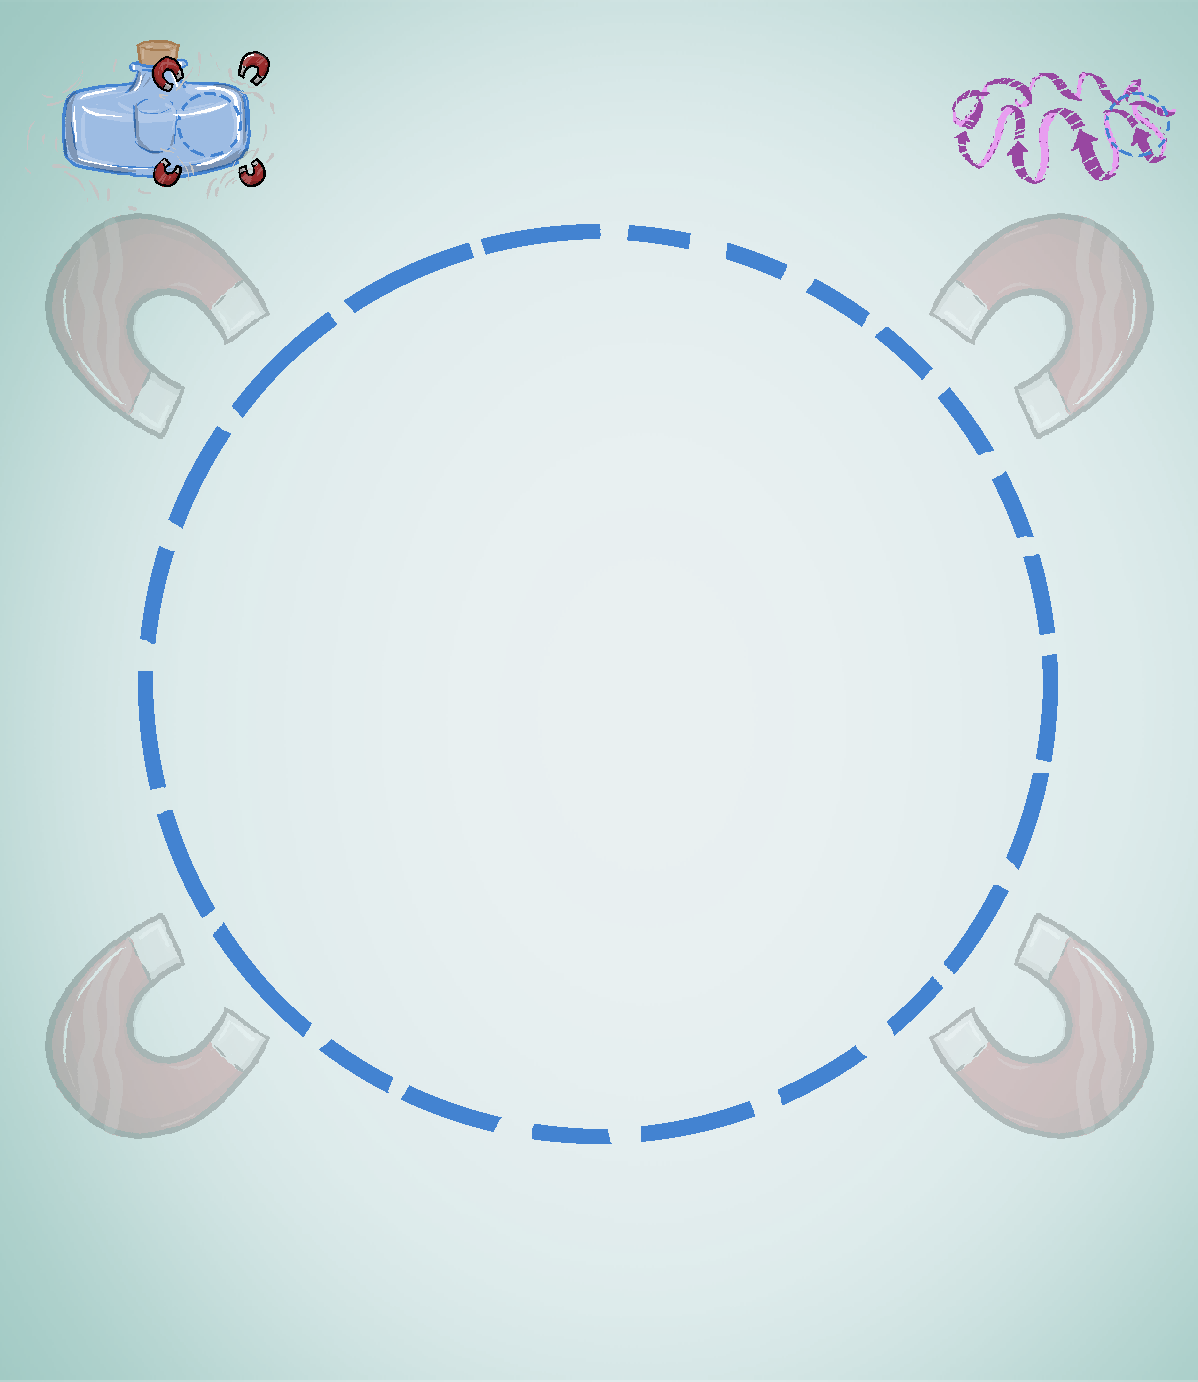
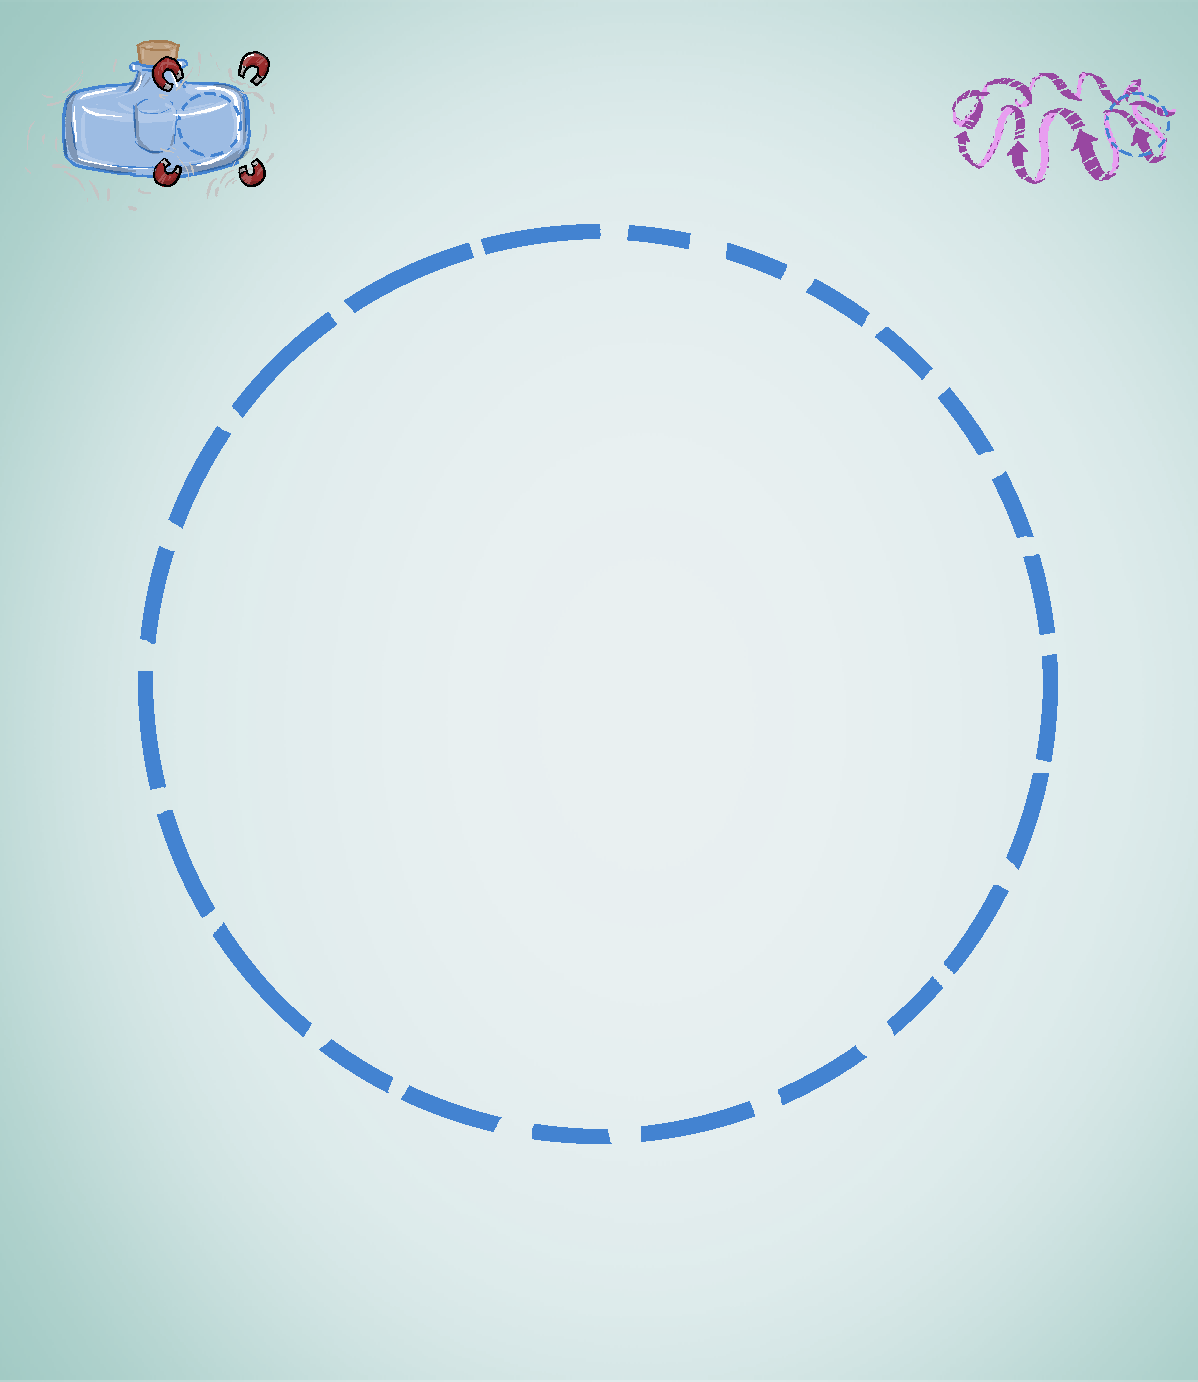
tweaks

diff --git a/library/styles/site.css b/library/styles/site.css
@@ -190,7 +190,7 @@ html, body, #wrap-outer {
   right: 0;
   text-align: center;
   padding: 20px 30px;
-  z-index: 3;
+  z-index: 6;
   text-shadow: 0 0 7px white;
 }
 /* line 139, /Users/wellcaffeinated/Documents/github/minutelabs/Fusion/library/styles/site.scss */
@@ -199,7 +199,7 @@ html, body, #wrap-outer {
   position: absolute;
   bottom: -10px;
   left: 15px;
-  z-index: 1;
+  z-index: 6;
   background: url('../images/fg-jorge-arturo.png?1401842778') no-repeat center center;
   background-size: 100%;
   width: 185px;
@@ -208,7 +208,7 @@ html, body, #wrap-outer {
 
 /* line 152, /Users/wellcaffeinated/Documents/github/minutelabs/Fusion/library/styles/site.scss */
 #bottle-simulation {
-  background: url('../images/bg-bottle.png?1401842778') no-repeat center center;
+  background: url('../images/bg-bottle.png?1401939898') no-repeat center center;
   background-size: 100%;
   height: 690px;
 }
@@ -239,7 +239,7 @@ html, body, #wrap-outer {
   position: absolute;
   bottom: -20px;
   left: 15px;
-  z-index: 1;
+  z-index: 6;
   background: url('../images/fg-jorge-stefan.png?1401842778') no-repeat center center;
   background-size: 100%;
   width: 230px;
@@ -296,55 +296,56 @@ html, body, #wrap-outer {
 /* line 233, /Users/wellcaffeinated/Documents/github/minutelabs/Fusion/library/styles/site.scss */
 .controls label {
   padding-right: 1em;
+  text-shadow: 0 0 7px white;
 }
-/* line 237, /Users/wellcaffeinated/Documents/github/minutelabs/Fusion/library/styles/site.scss */
+/* line 238, /Users/wellcaffeinated/Documents/github/minutelabs/Fusion/library/styles/site.scss */
 .controls .phdbtn {
   font-family: 'PHD';
   margin-bottom: 1em;
   margin-right: 1em;
 }
-/* line 243, /Users/wellcaffeinated/Documents/github/minutelabs/Fusion/library/styles/site.scss */
+/* line 244, /Users/wellcaffeinated/Documents/github/minutelabs/Fusion/library/styles/site.scss */
 .controls .slider {
   margin-bottom: 1em;
 }
-/* line 246, /Users/wellcaffeinated/Documents/github/minutelabs/Fusion/library/styles/site.scss */
+/* line 247, /Users/wellcaffeinated/Documents/github/minutelabs/Fusion/library/styles/site.scss */
 .controls .slider .handle {
   -webkit-transform: translateZ(0);
 }
-/* line 251, /Users/wellcaffeinated/Documents/github/minutelabs/Fusion/library/styles/site.scss */
+/* line 252, /Users/wellcaffeinated/Documents/github/minutelabs/Fusion/library/styles/site.scss */
 .controls .col-counter {
   margin: 0 0 1em 0.6em;
   text-align: left;
 }
-/* line 254, /Users/wellcaffeinated/Documents/github/minutelabs/Fusion/library/styles/site.scss */
+/* line 255, /Users/wellcaffeinated/Documents/github/minutelabs/Fusion/library/styles/site.scss */
 .controls .col-counter data {
   font-size: 2em;
   vertical-align: middle;
   margin-left: 0.2em;
   margin-top: -0.2em;
 }
-/* line 262, /Users/wellcaffeinated/Documents/github/minutelabs/Fusion/library/styles/site.scss */
+/* line 263, /Users/wellcaffeinated/Documents/github/minutelabs/Fusion/library/styles/site.scss */
 .controls .column {
   text-align: center;
 }
-/* line 266, /Users/wellcaffeinated/Documents/github/minutelabs/Fusion/library/styles/site.scss */
+/* line 267, /Users/wellcaffeinated/Documents/github/minutelabs/Fusion/library/styles/site.scss */
 .controls .field-type {
   overflow: hidden;
   margin-bottom: 2em;
 }
-/* line 269, /Users/wellcaffeinated/Documents/github/minutelabs/Fusion/library/styles/site.scss */
+/* line 270, /Users/wellcaffeinated/Documents/github/minutelabs/Fusion/library/styles/site.scss */
 .controls .field-type .radio-group {
   margin-left: 1em;
 }
-/* line 271, /Users/wellcaffeinated/Documents/github/minutelabs/Fusion/library/styles/site.scss */
+/* line 272, /Users/wellcaffeinated/Documents/github/minutelabs/Fusion/library/styles/site.scss */
 .controls .field-type .radio-group > a {
   margin-right: 48px;
 }
-/* line 273, /Users/wellcaffeinated/Documents/github/minutelabs/Fusion/library/styles/site.scss */
+/* line 274, /Users/wellcaffeinated/Documents/github/minutelabs/Fusion/library/styles/site.scss */
 .controls .field-type .radio-group > a:last-child {
   margin-right: 0;
 }
-/* line 280, /Users/wellcaffeinated/Documents/github/minutelabs/Fusion/library/styles/site.scss */
+/* line 281, /Users/wellcaffeinated/Documents/github/minutelabs/Fusion/library/styles/site.scss */
 .controls:before {
   content: 'Play with the knobs, see what happens!';
   width: 150px;
@@ -360,15 +361,15 @@ html, body, #wrap-outer {
   background-size: 34px;
 }
 
-/* line 296, /Users/wellcaffeinated/Documents/github/minutelabs/Fusion/library/styles/site.scss */
+/* line 297, /Users/wellcaffeinated/Documents/github/minutelabs/Fusion/library/styles/site.scss */
 #bottom-info {
   position: relative;
 }
-/* line 299, /Users/wellcaffeinated/Documents/github/minutelabs/Fusion/library/styles/site.scss */
+/* line 300, /Users/wellcaffeinated/Documents/github/minutelabs/Fusion/library/styles/site.scss */
 #bottom-info .legend {
   margin: 34px 22px;
 }
-/* line 301, /Users/wellcaffeinated/Documents/github/minutelabs/Fusion/library/styles/site.scss */
+/* line 302, /Users/wellcaffeinated/Documents/github/minutelabs/Fusion/library/styles/site.scss */
 #bottom-info .legend h3 {
   font-family: 'PHD';
   color: #000;
@@ -376,12 +377,12 @@ html, body, #wrap-outer {
   font-weight: normal;
   margin: 0;
 }
-/* line 308, /Users/wellcaffeinated/Documents/github/minutelabs/Fusion/library/styles/site.scss */
+/* line 309, /Users/wellcaffeinated/Documents/github/minutelabs/Fusion/library/styles/site.scss */
 #bottom-info .legend dl {
   overflow: hidden;
   margin: 0;
 }
-/* line 312, /Users/wellcaffeinated/Documents/github/minutelabs/Fusion/library/styles/site.scss */
+/* line 313, /Users/wellcaffeinated/Documents/github/minutelabs/Fusion/library/styles/site.scss */
 #bottom-info .legend dt {
   float: left;
   height: 22px;
@@ -389,20 +390,20 @@ html, body, #wrap-outer {
   clear: left;
   text-align: center;
 }
-/* line 319, /Users/wellcaffeinated/Documents/github/minutelabs/Fusion/library/styles/site.scss */
+/* line 320, /Users/wellcaffeinated/Documents/github/minutelabs/Fusion/library/styles/site.scss */
 #bottom-info .legend dd {
   float: left;
   height: 22px;
   line-height: 120%;
   margin-left: 4px;
 }
-/* line 329, /Users/wellcaffeinated/Documents/github/minutelabs/Fusion/library/styles/site.scss */
+/* line 330, /Users/wellcaffeinated/Documents/github/minutelabs/Fusion/library/styles/site.scss */
 #bottom-info .credit {
   position: absolute;
   right: 20px;
   top: 54px;
 }
-/* line 335, /Users/wellcaffeinated/Documents/github/minutelabs/Fusion/library/styles/site.scss */
+/* line 336, /Users/wellcaffeinated/Documents/github/minutelabs/Fusion/library/styles/site.scss */
 #bottom-info .minutelabs {
   font-size: 18px;
   font-family: "latin-modern-mono", Courier, monospace;
@@ -416,11 +417,11 @@ html, body, #wrap-outer {
   -webkit-font-smoothing: auto;
   text-rendering: optimizeLegibility;
 }
-/* line 349, /Users/wellcaffeinated/Documents/github/minutelabs/Fusion/library/styles/site.scss */
+/* line 350, /Users/wellcaffeinated/Documents/github/minutelabs/Fusion/library/styles/site.scss */
 #bottom-info .minutelabs span {
   color: #626262;
 }
-/* line 353, /Users/wellcaffeinated/Documents/github/minutelabs/Fusion/library/styles/site.scss */
+/* line 354, /Users/wellcaffeinated/Documents/github/minutelabs/Fusion/library/styles/site.scss */
 #bottom-info .minutelabs img {
   display: block;
   margin: 0 auto 0.4em;

diff --git a/library/js/mediators/boilerplate.js b/library/js/mediators/boilerplate.js
@@ -152,7 +152,7 @@ define([
             // bounds of the window
             ,viewportBounds = Physics.aabb(0, 0, viewWidth, viewHeight)
             ,center = Physics.vector(viewWidth/2, viewHeight/2)
-            ,coulomb = Physics.behavior('coulomb', { strength: 2/world.timestep(), min: 5 })
+            ,coulomb = Physics.behavior('coulomb', { strength: 3/world.timestep(), min: 5 })
             ;
 
         // create a renderer
@@ -223,11 +223,11 @@ define([
                 var T = ui.settings.energy/world.timestep();
                 var particles = [];
                 var tries = 100;
-                while( l < 20 && tries > 0 ){
+                while( l < 60 && tries > 0 ){
                     add = true;
                     pos.set(viewWidth * Math.random(), viewHeight  * Math.random());
                     for ( var i = 0, l = particles.length; i < l; i++ ){
-                        if ( particles[i].state.pos.dist(pos) <= lerp(200, 25, density) ){
+                        if ( particles[i].state.pos.dist(pos) <= lerp(200, 15, density) ){
                             add = false;
                             break;
                         }
@@ -345,6 +345,19 @@ define([
         });
 
         simulation( world, ui, el, field );
+
+        var magnets = $('<img>')
+            .attr('src', require.toUrl('../../images/bg-magnets.png'))
+            .attr('width', '550')
+            .css({ 'position': 'absolute', 'top': 112, 'left': 25, 'zIndex': 5 })
+            .appendTo(el)
+            ;
+
+        ui.on('change:field', function( e, val ){
+            magnets.css('opacity', val);
+        });
+
+        magnets.css('opacity', ui.settings.field);
     }
 
     // wait for domready, then initialize

diff --git a/library/styles/site.scss b/library/styles/site.scss
@@ -132,7 +132,7 @@ html, body, #wrap-outer {
         right: 0;
         text-align: center;
         padding: 20px 30px;
-        z-index: 3;
+        z-index: 6;
         @include text-shadow(0 0 7px white);
     }
 
@@ -141,7 +141,7 @@ html, body, #wrap-outer {
         position: absolute;
         bottom: -10px;
         left: 15px;
-        z-index: 1;
+        z-index: 6;
         background: image-url('fg-jorge-arturo.png') no-repeat center center;
         background-size: 100%;
         width: 185px;
@@ -180,7 +180,7 @@ html, body, #wrap-outer {
         position: absolute;
         bottom: -20px;
         left: 15px;
-        z-index: 1;
+        z-index: 6;
         background: image-url('fg-jorge-stefan.png') no-repeat center center;
         background-size: 100%;
         width: 230px;
@@ -232,6 +232,7 @@ html, body, #wrap-outer {
 
     label {
         padding-right: 1em;
+        @include text-shadow(0 0 7px white);
     }
 
     .phdbtn {

diff --git a/index.html b/index.html
@@ -29,7 +29,7 @@ layout: embed
             </div>
 
             <label>Temperature</label>
-            <div class="slider" data-name="energy" data-min="0.1" data-max="10" data-value="2"></div>
+            <div class="slider" data-name="energy" data-min="0.1" data-max="10" data-value="0.1"></div>
 
             <label>Confinement</label>
             <div class="slider" data-name="field" data-value="0.15"></div>
